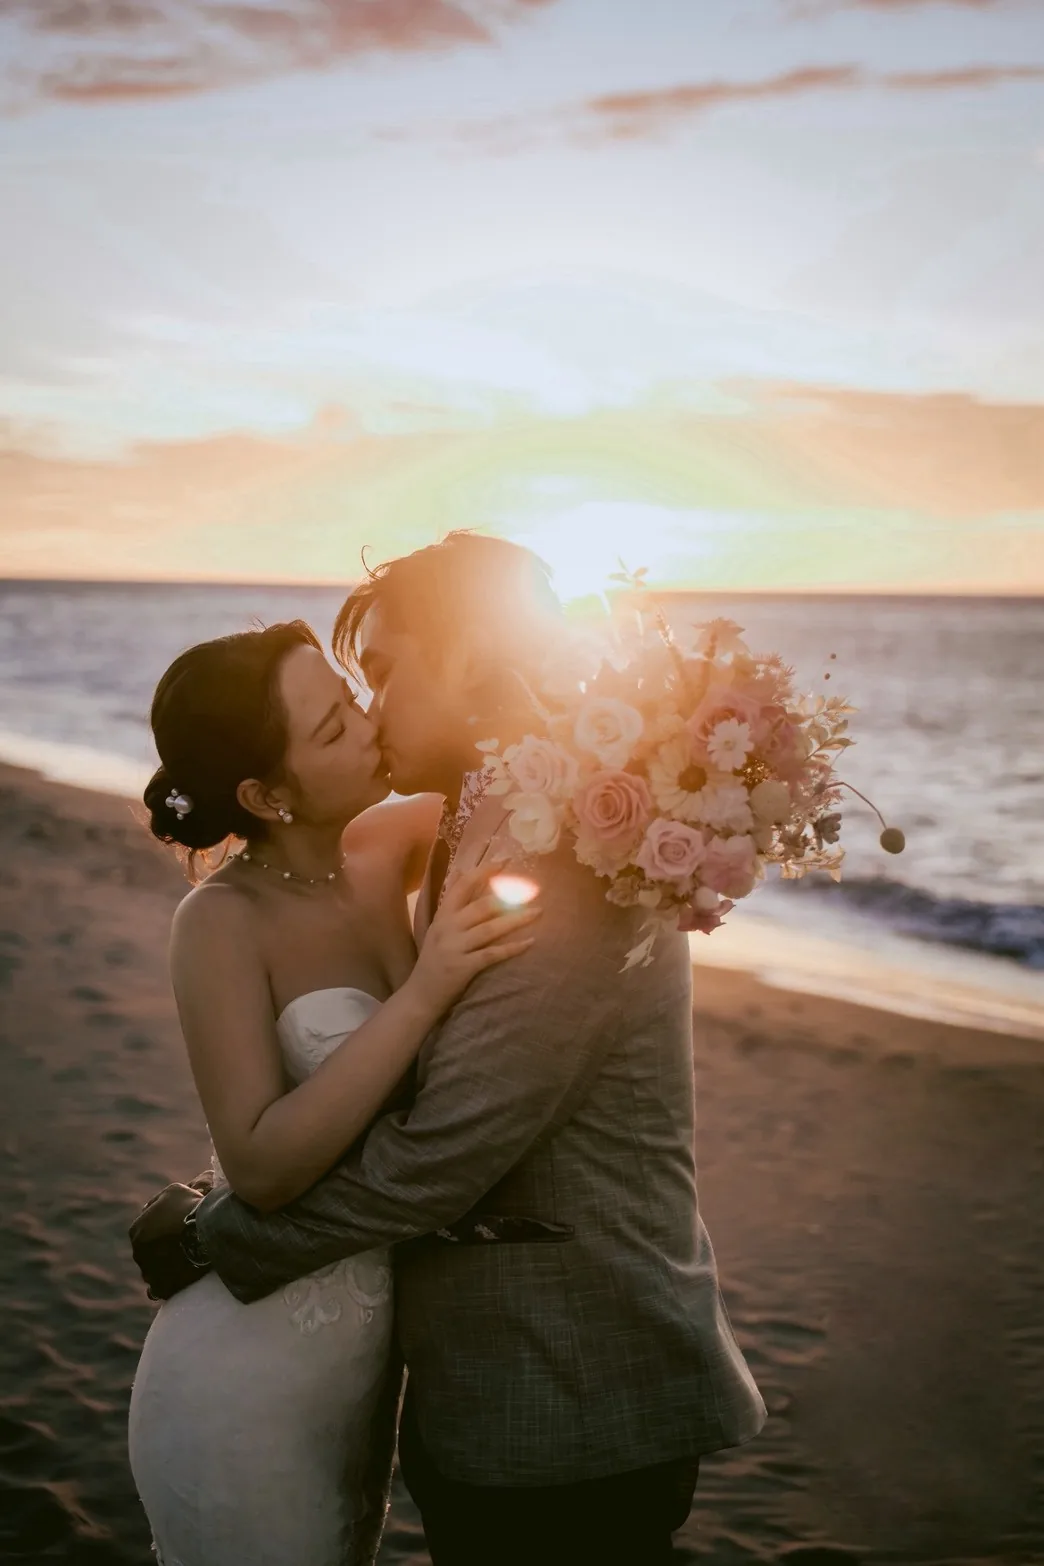
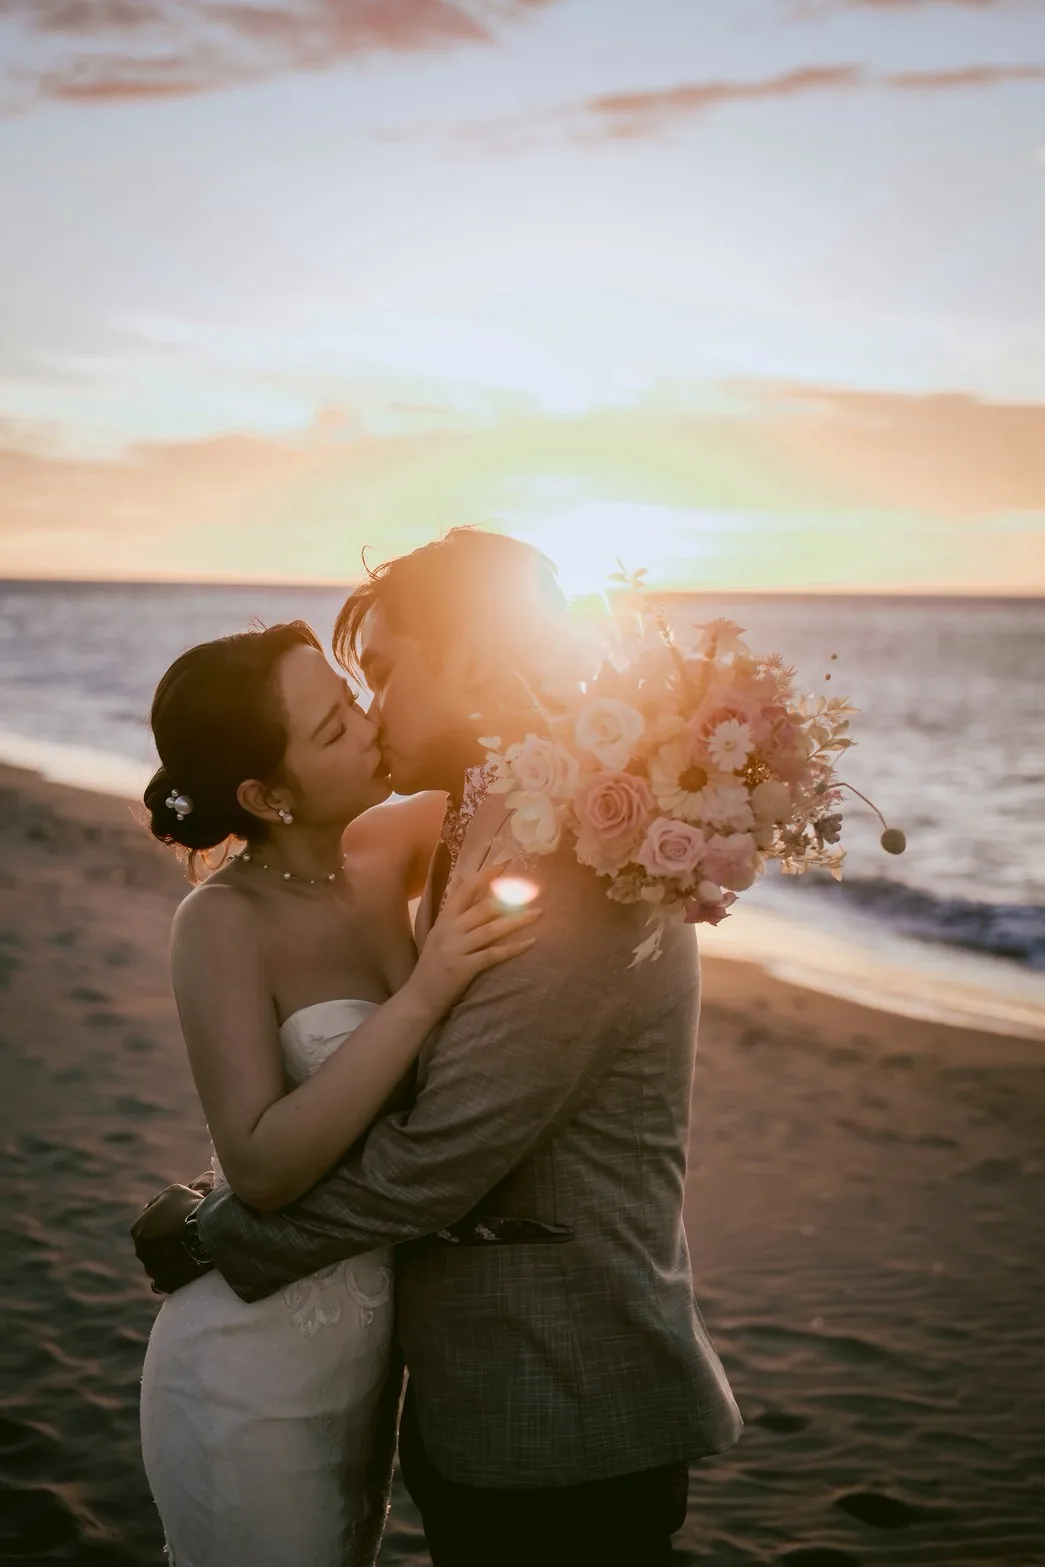
feat(gallery): add the third photo batch and three retouched shots

diff --git a/app/composables/useGalleryContent.ts b/app/composables/useGalleryContent.ts
@@ -1,8 +1,10 @@
 // 婚紗照頁（/gallery/[weddingId]）的靜態內容。
-// 照片放在 public/images/gallery/，命名 gallery-01.webp ~ gallery-50.webp
+// 照片放在 public/images/gallery/，命名 gallery-01.webp ~ gallery-62.webp
 // （01~33 是第一批、34~50 是新人 2026-09-15 自己修的第二批，長邊 1566；36 與 40 同場景重複，新人拿掉 36，編號留空不補位）。
+// 51~62 是 2026-09-17 的第三批（~/Downloads/0917已修，12 張、長邊 1567），編號＝LINE 相簿序號＋50：
+// 其中 _6、_9、_10 是 06、42、50 同一格畫面的重修版，直接蓋掉原檔、不另給編號，所以 56、59、60 留空；實際新增 9 張。
 // 分組依照片實際場景（草原粉紗／海邊白紗／都會黑禮服）判定；要調整只需改下方三個編號陣列。
-// 橫式只有 01~09、37、43、45、48，其餘都是直式——選單縮圖、系列首圖這些 3:2 裁切的位置只能挑橫式。
+// 橫式只有 01~09、37、43、45、48、52、55、57，其餘都是直式——選單縮圖、系列首圖這些 3:2 裁切的位置只能挑橫式。
 import type { GalleryContent, GalleryPhoto, GallerySeries } from '~/types/gallery'
 
 const ASSET_BASE = '/images/gallery/'
@@ -61,6 +63,16 @@ const PHOTO_ALT: Record<number, string> = {
   48: '林蔭下草坪上的全身合影，粉紗與灰西裝',
   49: '木橋欄杆邊由身後環抱，粉紗與森林綠意',
   50: '沙灘上單手揚起長頭紗的獨照，夕陽金光',
+  // 第三批（51~62，56／59／60 留空）
+  51: '林蔭步道旁的草地上並肩站立，粉紗長拖尾鋪在草地上',
+  52: '山林木橋上牽手走來，藍天與綠樹環繞，粉紗與灰西裝',
+  53: '長草坡上新郎蹲在新娘身旁，兩人拿著拍立得相機對鏡頭笑',
+  54: '海邊沙丘上由身後環抱，逆光下白紗長拖尾鋪展',
+  55: '新郎單手拿著捧花站在海邊草丘上遠望的獨照，灰西裝',
+  57: '夕陽海邊新郎從身後親吻新娘臉頰，新娘捧花笑開',
+  58: '夕陽逆光下新郎從身後環抱親吻，新娘捧著紫色捧花大笑',
+  61: '沙灘上頭紗隨風揚起的獨照，手捧淡色捧花回望',
+  62: '夕陽沙灘上新郎蹲在新娘身旁輕撫她的臉，白紗鋪在沙上',
 }
 
 /** 每個系列前幾張先載，其餘 lazy load（沿用 useStoryContent 的做法） */
@@ -71,25 +83,32 @@ function photoSrc(num: number): string {
 }
 
 /** 橫式照片的編號（其餘都是直式） */
-const LANDSCAPE = new Set([1, 2, 3, 4, 5, 6, 7, 8, 9, 37, 43, 45, 48])
-/** 第二批裡新人裁過、不是標準 1044×1566 的三張（實際量的 webp 尺寸） */
+const LANDSCAPE = new Set([1, 2, 3, 4, 5, 6, 7, 8, 9, 37, 43, 45, 48, 52, 55, 57])
+/**
+ * 不是該批標準尺寸的幾張（實際量的 webp 尺寸）：第二批新人裁過的 34、44；
+ *  第三批重修版蓋掉的 06、42、50（尺寸跟著新檔走，不再是原本那一批的標準）與裁過的 52、61
+ */
 const SIZE_OVERRIDE: Record<number, [number, number]> = {
+  6: [1567, 1045],
   34: [1041, 1573],
+  42: [1045, 1567],
   44: [1041, 1571],
-  50: [1042, 1570],
+  50: [1040, 1572],
+  52: [1562, 1046],
+  61: [1040, 1572],
 }
 
 /**
  * 照片的原始寬高：給 <img> 的 width／height，瀏覽器在圖載入前就先依比例佔好位置。
  * 沒給的話 lazy 圖在載入前高度是 0、載完才撐開，長長的照片流會一路跳，
  * useScrollProgress 快取的位置也跟著失準（PR #159 Copilot 審查）。
- * 第一批長邊 1600（1600×1111／1111×1600），第二批長邊 1566（1566×1044／1044×1566）
+ * 第一批長邊 1600（1600×1111／1111×1600），第二批長邊 1566（1566×1044／1044×1566），第三批長邊 1567（1567×1045／1045×1567）
  */
 function photoSize(num: number): [number, number] {
   const override = SIZE_OVERRIDE[num]
   if (override)
     return override
-  const [long, short] = num <= 33 ? [1600, 1111] : [1566, 1044]
+  const [long, short] = num <= 33 ? [1600, 1111] : num <= 50 ? [1566, 1044] : [1567, 1045]
   return LANDSCAPE.has(num) ? [long, short] : [short, long]
 }
 
@@ -115,15 +134,15 @@ interface SeriesSeed {
   /** landing 大字的切點；挑在音節上，斷開後眼睛才拼得回來（SUN|SET、GREEN|ERY） */
   wordSplit: number
   description: string
-  /** 系列頁首圖編號（滿版出血會裁掉上下，橫式優先——橫式只有 01~09、37、43、45、48） */
+  /** 系列頁首圖編號（滿版出血會裁掉上下，橫式優先——橫式只有 01~09、37、43、45、48、52、55、57） */
   cover: number
   /** 首圖的垂直裁切錨點；直式照片要把這個值調到人臉的高度，否則寬版裁切會切到頭 */
   coverFocus: string
-  /** 頁尾「下一個系列」預告卡編號（非直視鏡頭，橫式優先——橫式只有 01~09、37、43、45、48） */
+  /** 頁尾「下一個系列」預告卡編號（非直視鏡頭，橫式優先——橫式只有 01~09、37、43、45、48、52、55、57） */
   preview: number
   /**
    * PublicMenu 目錄列的縮圖編號。那裡是 3:2 置中裁切，直式會切掉頭或半身，
-   * 所以只准填橫式（01~09、37、43、45、48）；city 系列到第二批仍沒有橫式照片，只能借別組的一張。
+   * 所以只准填橫式（01~09、37、43、45、48、52、55、57）；city 系列到第二批仍沒有橫式照片，只能借別組的一張。
    */
   menuThumb: number
   /** landing 大字上方的水彩插圖檔名（public/images/gallery-art/ 底下，去背 webp） */
@@ -151,9 +170,11 @@ const SERIES_SEEDS: SeriesSeed[] = [
     menuThumb: 2,
     artwork: 'meadow.webp',
     windmills: true,
-    // 第二批穿插進第一批之間（不是接在尾巴），系列頁往下捲兩批才會交錯出現；showcase 也換進四張第二批，且不再用 hero 那張（01）
-    showcase: [46, 23, 41, 38, 25, 49, 21],
-    nums: [1, 2, 45, 3, 4, 41, 5, 37, 15, 16, 46, 17, 18, 47, 19, 20, 38, 21, 22, 49, 23, 24, 48, 25, 39],
+    // 第二、三批穿插進第一批之間（不是接在尾巴），系列頁往下捲三批才會交錯出現；showcase 也換進第二、三批，且不再用 hero 那張（01）。
+    // 第三批（09-17）：53 換掉 23、51 換掉 25（showcase 的格子全是直式，橫式的 52 只進系列頁）；
+    // 52 跟 02 都是木橋，系列頁裡隔開放
+    showcase: [46, 53, 41, 38, 51, 49, 21],
+    nums: [1, 2, 45, 3, 53, 4, 41, 5, 37, 52, 15, 16, 46, 17, 18, 47, 19, 51, 20, 38, 21, 22, 49, 23, 24, 48, 25, 39],
   },
   {
     slug: 'seaside',
@@ -168,8 +189,11 @@ const SERIES_SEEDS: SeriesSeed[] = [
     menuThumb: 7,
     artwork: 'seaside.webp',
     bubbles: true,
-    showcase: [28, 42, 31, 44, 9, 50, 32],
-    nums: [6, 7, 43, 8, 9, 26, 44, 27, 28, 42, 29, 30, 31, 50, 32, 33],
+    // 第三批（09-17）：showcase 換進 54、58、62、61（換掉 28、31、09、50）——格子全是直式，原本那張橫式的 09 會被裁成直條；
+    // 手機只演前四張，前四張就有兩張新的。57 與 58 是同一刻的橫直兩版，57 只進系列頁、兩張隔開放；
+    // 55（新郎獨照）不跟 27（也是新郎獨照）相鄰
+    showcase: [54, 42, 58, 44, 62, 61, 29],
+    nums: [6, 7, 57, 43, 8, 54, 9, 55, 26, 61, 44, 58, 27, 28, 42, 62, 29, 30, 31, 50, 32, 33],
   },
   {
     slug: 'city',
